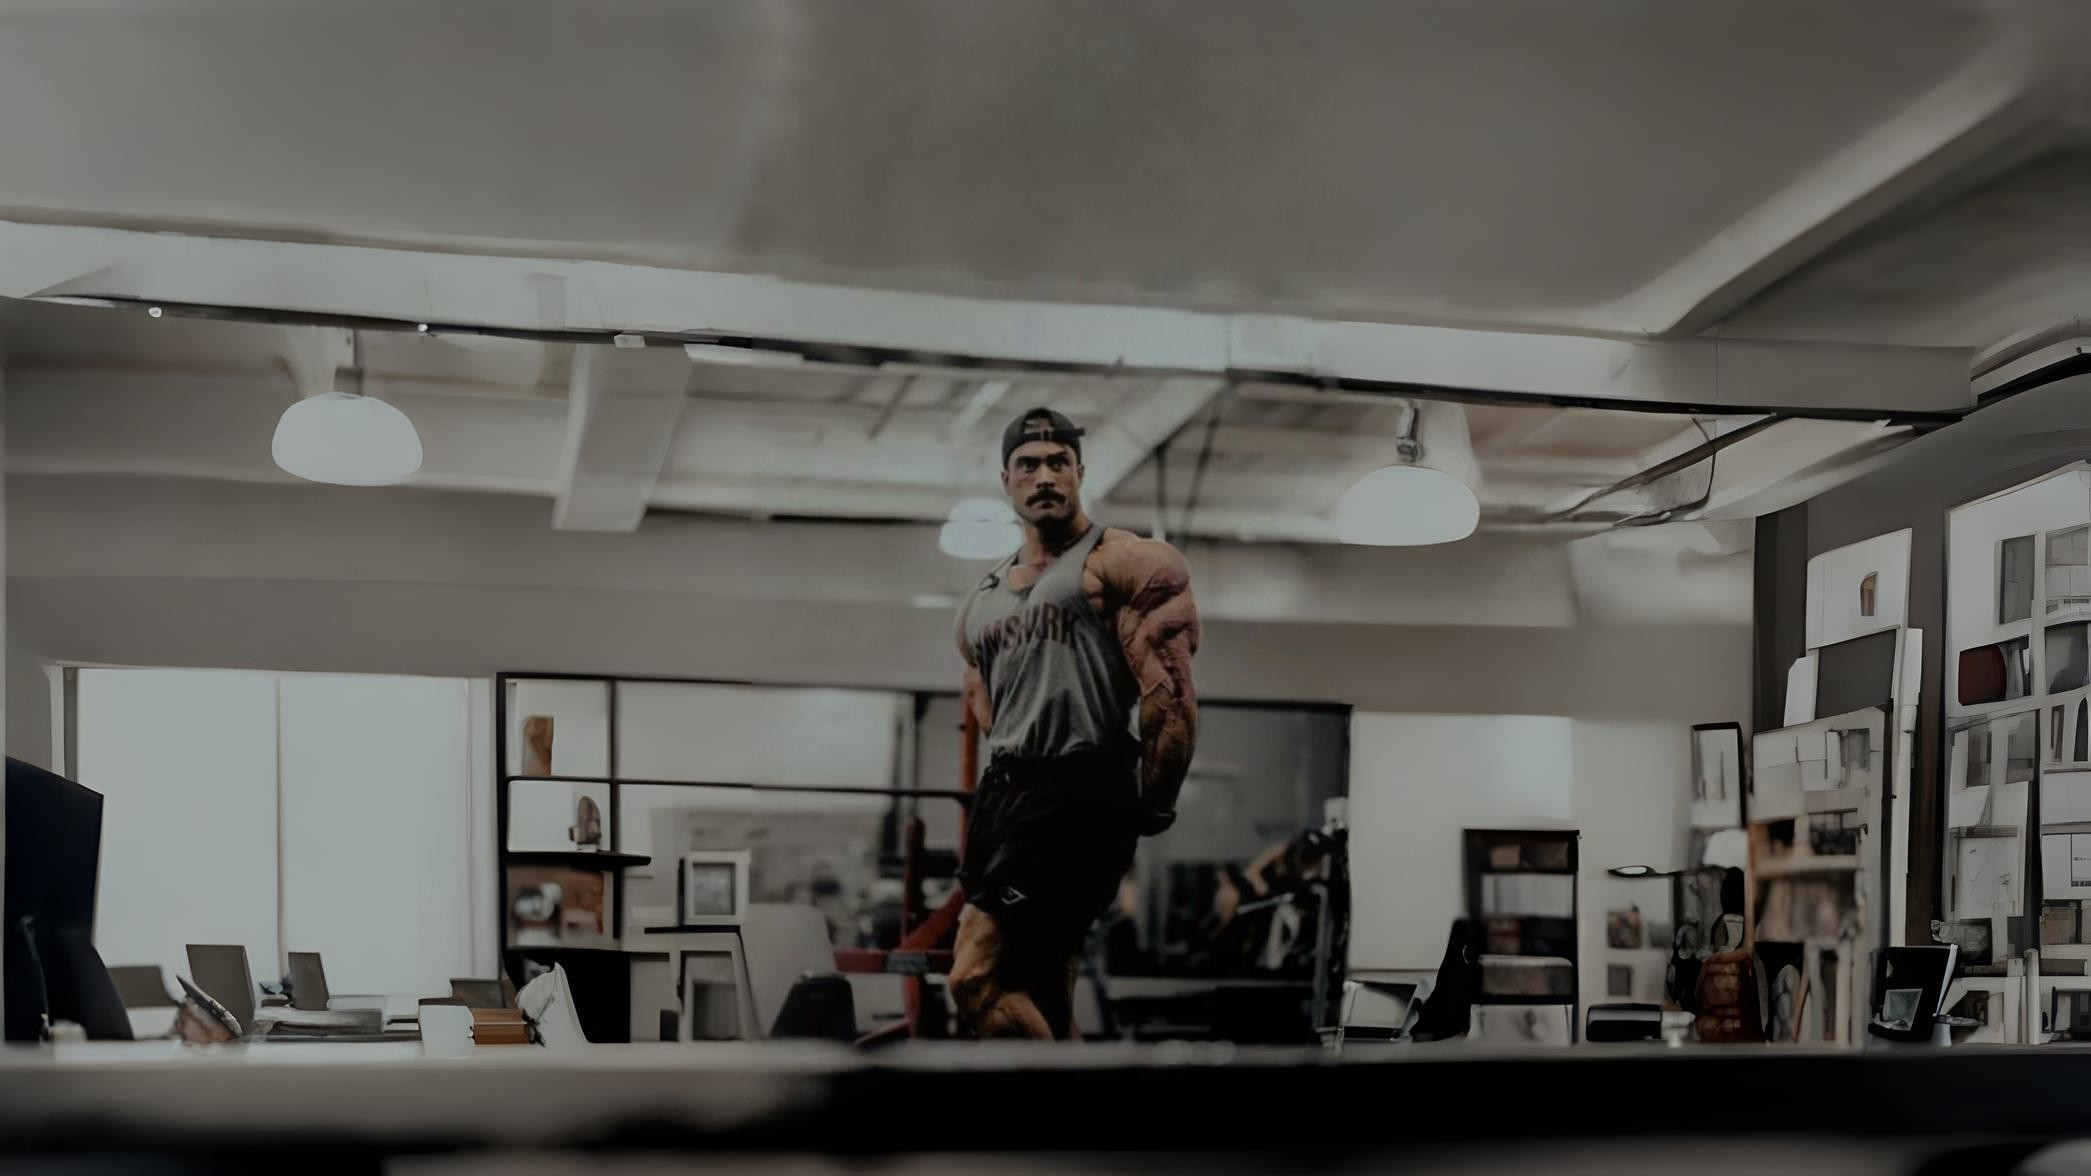
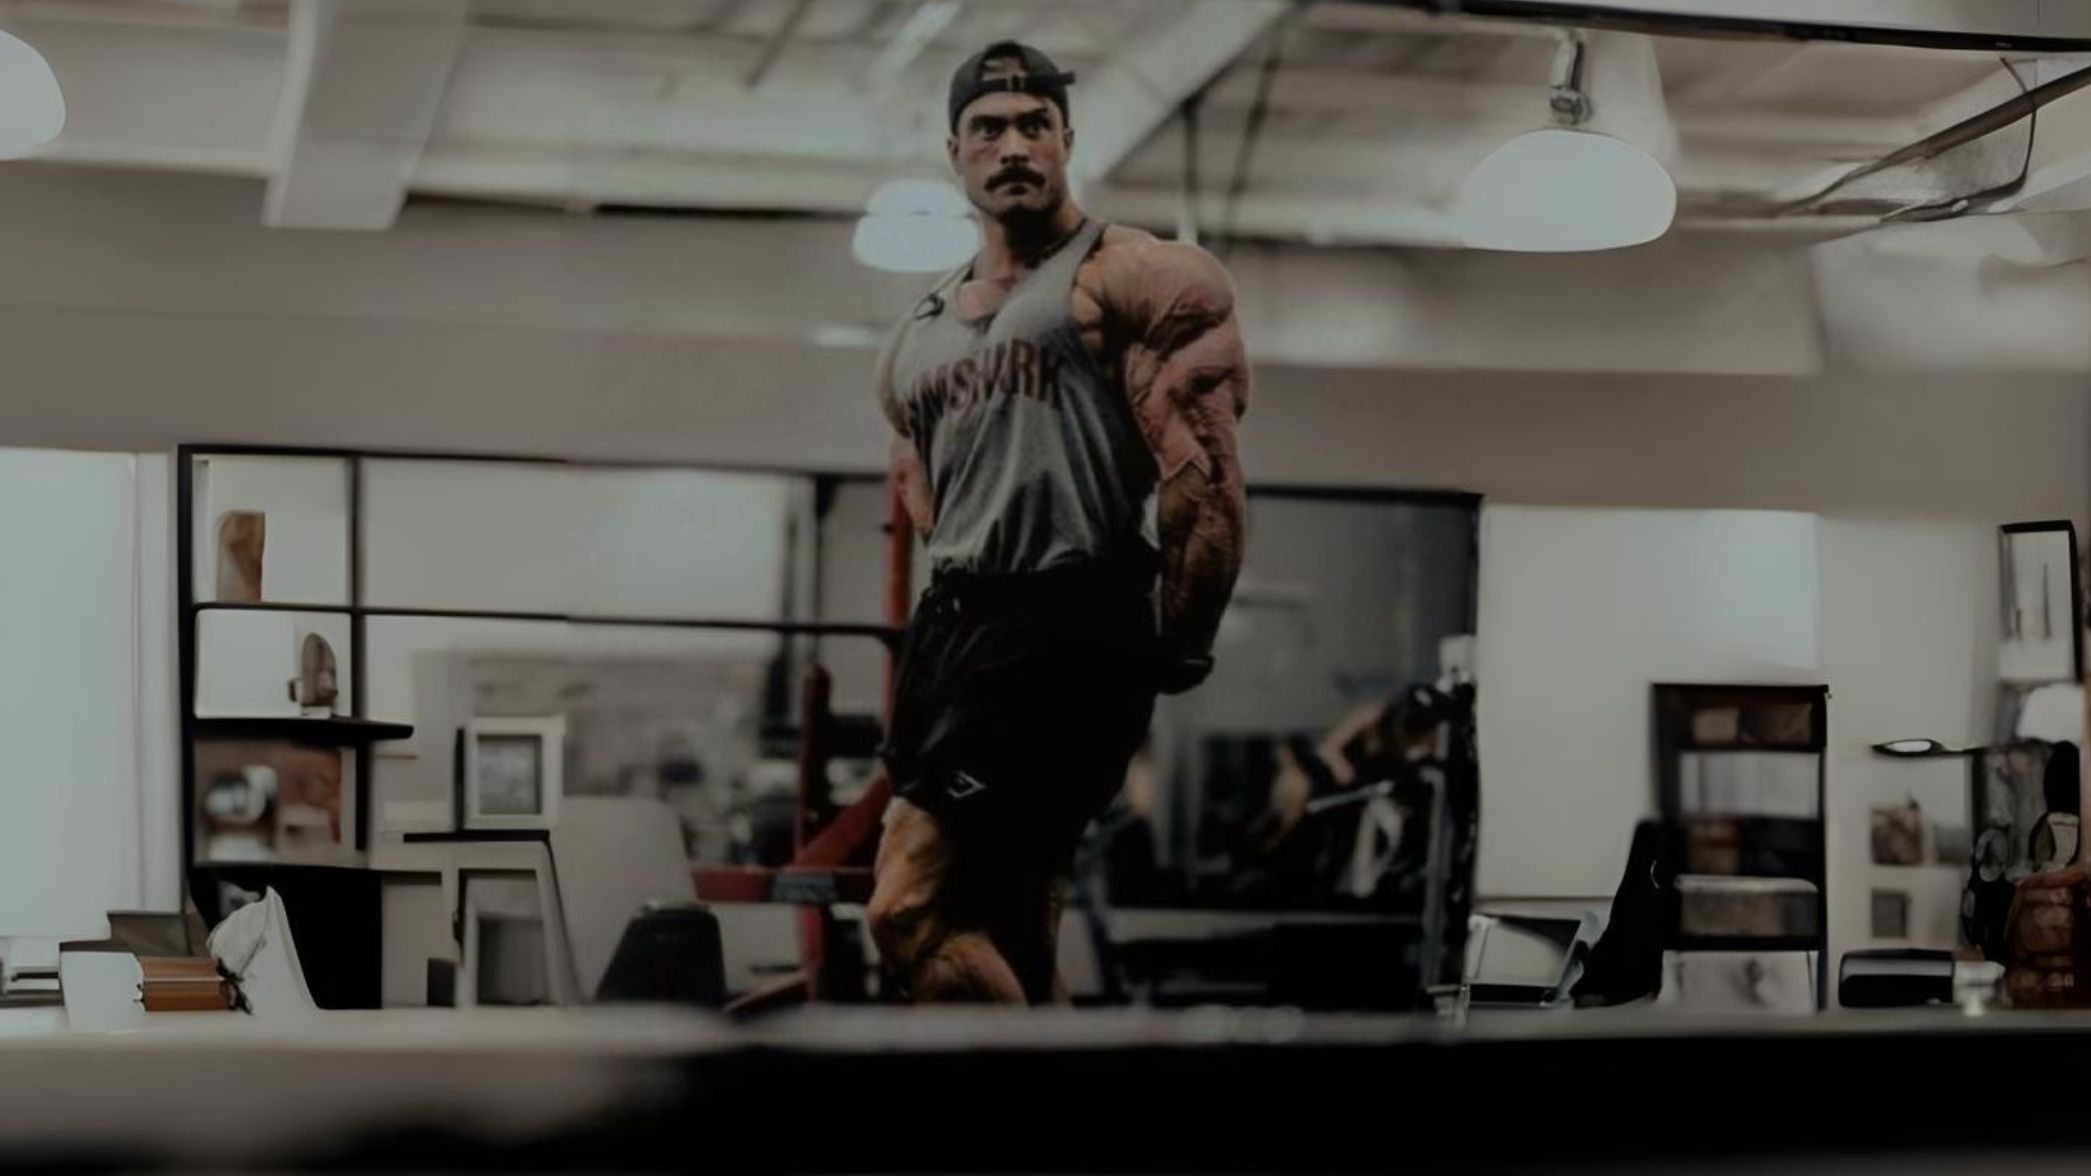
update

diff --git a/src/pages/Motivacional.jsx b/src/pages/Motivacional.jsx
@@ -1,5 +1,4 @@
 import Container from "../ui/Container";
-
 import Logo from "../ui/Logo";
 import Title from "../ui/Title";
 import Subtitle from "../ui/Subtitle";
@@ -26,47 +25,84 @@ pessoas.forEach((pessoa) => {
 function Motivacional() {
   return (
     <Container className="relative h-real w-screen overflow-hidden bg-brand-bgDarkGray">
-      {/* Logo */}
-      <div className="absolute top-8 left-16 transform -translate-x-1/2 z-10 block md:hidden">
+      {/* Logo (aparece só no mobile conforme antes) */}
+      <div className="absolute top-8 left-16 transform -translate-x-1/2 z-10 block lg:hidden">
         <Logo />
       </div>
 
       <Swiper
         slidesPerView={1}
-        className="relative h-real w-screen overflow-hidden"
+        className="relative h-real w-screen"
         navigation
         pagination={{ clickable: true }}
         autoplay={{ delay: 8000, disableOnInteraction: true }}
       >
         {pessoas.map((pessoa) => (
           <SwiperSlide key={pessoa.id}>
-            {/* Background */}
-            <div className="absolute inset-0 z-0 flex justify-center items-center">
+            {/* ========== MOBILE: exatamente como antes ========== */}
+            <div className="lg:hidden absolute inset-0 z-0 flex justify-center items-center">
               <div
                 className="rounded-2xl shadow-2xl bg-white/5 backdrop-blur-sm overflow-hidden
-                flex justify-center items-center h-full w-full md:w-auto md:h-auto"
+                  flex justify-center items-center h-full w-full"
               >
                 <Img
                   src={pessoa.imagem}
-                  className="h-full w-full object-cover md:w-[640px] md:h-[1080px] md:object-cover opacity-90"
+                  className="h-full w-full object-cover opacity-90"
                 />
               </div>
 
-              {/* Fade */}
+              {/* Fade (mobile) */}
               <div className="absolute inset-0 bg-gradient-to-t from-brand-bgDarkGray via-brand-bgDarkGray/70 to-transparent" />
             </div>
 
-            {/* Texto */}
-            <div className="relative z-10 mt-20 flex flex-col items-center justify-end h-real pb-44 px-8 text-white">
-              <Title className="text-center font-extrabold mb-2 text-white text-3xl md:text-5xl">
+            {/* Texto do mobile (mantido igual) */}
+            <div className="lg:hidden relative z-10 mt-20 flex flex-col items-center justify-end h-real pb-44 px-8 text-white">
+              <Title className="text-center font-extrabold mb-2 text-white text-3xl">
                 {pessoa.nome}
               </Title>
 
-              <Subtitle className="text-sm md:text-xl">{`"${pessoa.frase}"`}</Subtitle>
+              <Subtitle className="text-sm">{`"${pessoa.frase}"`}</Subtitle>
 
-              <Text className="text-xs font-light text-white text-justify max-w-sm mt-4 md:text-base md:max-w-xl">
+              <Text className="text-xs font-light text-white text-justify max-w-sm mt-4">
                 {pessoa.historia}
               </Text>
+            </div>
+
+            {/* ========== DESKTOP: imagem à esquerda, texto direita ========== */}
+            <div className="hidden lg:flex h-real w-screen items-stretch">
+              {/* FOTO ESQUERDA */}
+              <div
+                className="relative w-1/2 ml-60 flex items-start justify-center"
+                /* importante: items-start para que a imagem se alinhe ao topo em vez de ser centralizada */
+              >
+                <div className="relative w-full h-full overflow-visible">
+                  <Img
+                    src={pessoa.imagem}
+                    className={
+                      // Desktop: evitar corte do topo — object-top + min-h
+                      "w-full h-auto min-h-[70vh] lg:min-h-[85vh] object-cover lg:object-top opacity-90 shadow-xl"
+                    }
+                  />
+
+                  {/* Fade sobre a imagem (desktop) */}
+                  <div className="absolute inset-0 pointer-events-none bg-gradient-to-t from-brand-bgDarkGray/90 via-brand-bgDarkGray/40 to-transparent rounded-2xl" />
+                </div>
+              </div>
+
+              {/* TEXTO DIREITA */}
+              <div className="w-1/2 h-full flex flex-col justify-center px-16 text-white z-30">
+                <Title className="text-left font-extrabold mb-4 text-white text-5xl">
+                  {pessoa.nome}
+                </Title>
+
+                <Subtitle className="text-left text-xl mb-6">
+                  {`"${pessoa.frase}"`}
+                </Subtitle>
+
+                <Text className="text-left text-base font-light max-w-lg">
+                  {pessoa.historia}
+                </Text>
+              </div>
             </div>
           </SwiperSlide>
         ))}

diff --git a/src/pages/Home.jsx b/src/pages/Home.jsx
@@ -5,19 +5,29 @@ import Subtitle from "../ui/Subtitle";
 import Button from "../ui/Button";
 import Img from "../ui/Img";
 import cbumHome from "../data/images/cbum-home.jpg";
+import cbumHomePc from "../data/images/cbum-homepc.jpg";
 
 function Home() {
   return (
     <Container className="relative h-real w-screen overflow-hidden bg-brand-bgDarkGray">
       {/* Imagem com fade */}
-      <div className=" inset-x-0 bottom-0 h-3/5 z-0 relative">
-        <Img src={cbumHome} alt="Cbum lifting weights" />
+      <div className="inset-x-0 bottom-0 h-3/5 relative z-0 pointer-events-none overflow-hidden">
+        {/* Mobile image */}
+        <div className="block lg:hidden">
+          <Img src={cbumHome} alt="Cbum lifting weights" />
+        </div>
+
+        {/* Desktop image */}
+        <div className="hidden lg:block">
+          <Img src={cbumHomePc} alt="Cbum lifting weights desktop" />
+        </div>
+
         {/* Fade da imagem para o fundo */}
         <div className="absolute inset-0 bg-gradient-to-t from-brand-bgDarkGray via-brand-bgDarkGray/20 to-transparent" />
       </div>
 
       {/* Conteúdo principal */}
-      <Container className="absolute inset-x-0 bottom-0 pb-20 text-white text-center flex flex-col items-center z-10">
+      <Container className="inset-x-0 bottom-0 pb-20 text-white text-center flex flex-col items-center z-10 relative">
         <Logo />
 
         <Title>Bem vindo, monstro</Title>
@@ -25,11 +35,7 @@ function Home() {
           Treine de modo inteligente
         </Subtitle>
 
-        <Button
-          page="/recomendado" // Trocar para /registrar depois
-        >
-          Aprenda você mesmo
-        </Button>
+        <Button page="/recomendado">Aprenda você mesmo</Button>
       </Container>
     </Container>
   );

diff --git a/src/pages/RecomendacaoTreino.jsx b/src/pages/RecomendacaoTreino.jsx
@@ -4,18 +4,29 @@ import Logo from "../ui/Logo";
 import Title from "../ui/Title";
 import Button from "../ui/Button";
 import davidLaid from "../data/images/david-recomendacao-treino.jpg";
+import davidLaidPc from "../data/images/david-recomendacao-treinopc.jpg";
 
 function RecomendacaoTreino() {
   return (
     <Container className="relative min-h-real w-screen overflow-hidden bg-brand-bgDarkGray">
-      {/* Imagem com fade - altura controlada para ser cortada primeiro */}
+      {/* Imagem com fade */}
       <div className="relative h-[55vh] md:h-[60vh] w-full overflow-hidden">
-        <Img src={davidLaid} alt="David laid" />
-        {/* Fade da imagem para o fundo */}
+
+        {/* Mobile */}
+        <div className="block lg:hidden">
+          <Img src={davidLaid} alt="David Laid" />
+        </div>
+
+        {/* Desktop */}
+        <div className="hidden lg:block">
+          <Img src={davidLaidPc} alt="David Laid (desktop)" />
+        </div>
+
+        {/* Fade */}
         <div className="absolute inset-0 bg-gradient-to-t from-brand-bgDarkGray via-brand-bgDarkGray/20 to-transparent" />
       </div>
 
-      {/* Conteúdo principal - com margem negativa para sobrepor a imagem */}
+      {/* Conteúdo */}
       <Container className="relative -mt-24 sm:-mt-28 md:-mt-32 lg:-mt-36 pb-20 sm:pb-24 md:pb-28 lg:pb-32 px-4 sm:px-6 md:px-8 lg:px-10 text-white text-center flex flex-col items-center w-full max-w-screen-xl mx-auto">
         <Logo />
 

diff --git a/src/pages/RecomendacaoNutricional.jsx b/src/pages/RecomendacaoNutricional.jsx
@@ -4,18 +4,29 @@ import Img from "../ui/Img";
 import Logo from "../ui/Logo";
 import Title from "../ui/Title";
 import imgRecomendacaoNutricional from "../data/images/recomendacao-nutricional.jpg";
+import imgRecomendacaoNutricionalPc from "../data/images/recomendacao-nutricionalpc.jpg";
 
 function RecomendacaoNutricional() {
   return (
     <Container className="relative h-real w-screen overflow-hidden bg-brand-bgDarkGray">
       {/* Imagem com fade */}
       <div className="relative h-[50vh] md:h-[55vh] w-full overflow-hidden">
-        <Img src={imgRecomendacaoNutricional} alt="Imagem de uma refeição" />
-        {/* Fade da imagem para o fundo */}
+
+        {/* Mobile */}
+        <div className="block lg:hidden">
+          <Img src={imgRecomendacaoNutricional} alt="Imagem de uma refeição" />
+        </div>
+
+        {/* Desktop */}
+        <div className="hidden lg:block">
+          <Img src={imgRecomendacaoNutricionalPc} alt="Imagem de uma refeição (desktop)" />
+        </div>
+
+        {/* Fade */}
         <div className="absolute inset-0 bg-gradient-to-t from-brand-bgDarkGray via-brand-bgDarkGray/20 to-transparent" />
       </div>
 
-      {/* Conteúdo principal */}
+      {/* Conteúdo */}
       <Container className="relative -mt-24 sm:-mt-28 md:-mt-32 lg:-mt-36 pb-20 sm:pb-24 md:pb-28 lg:pb-32 px-4 sm:px-6 md:px-8 lg:px-10 text-white text-center flex flex-col items-center w-full max-w-screen-xl mx-auto">
         <Logo />
 
